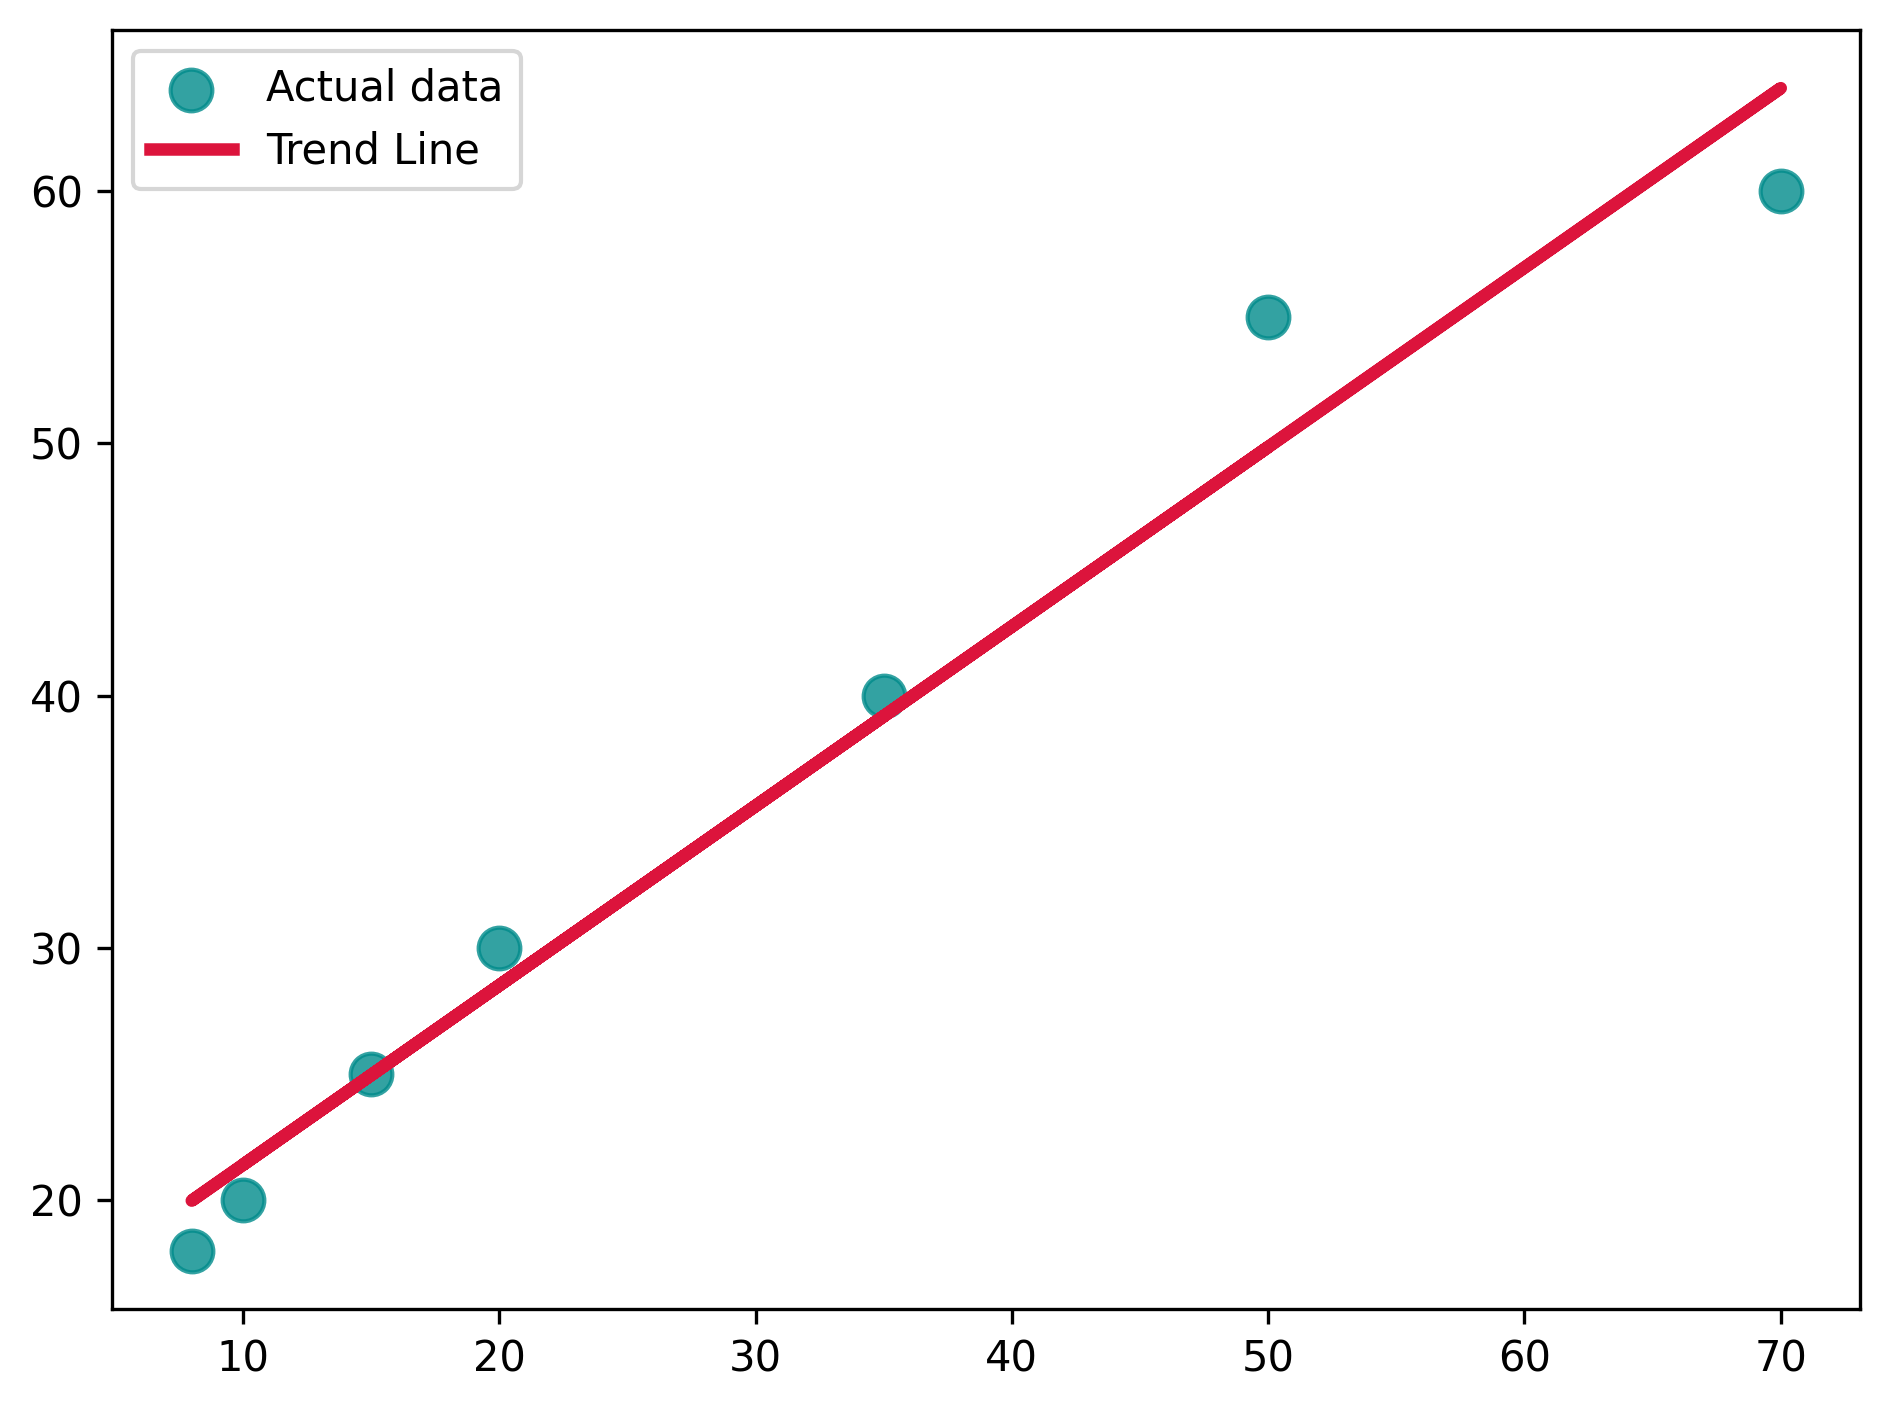
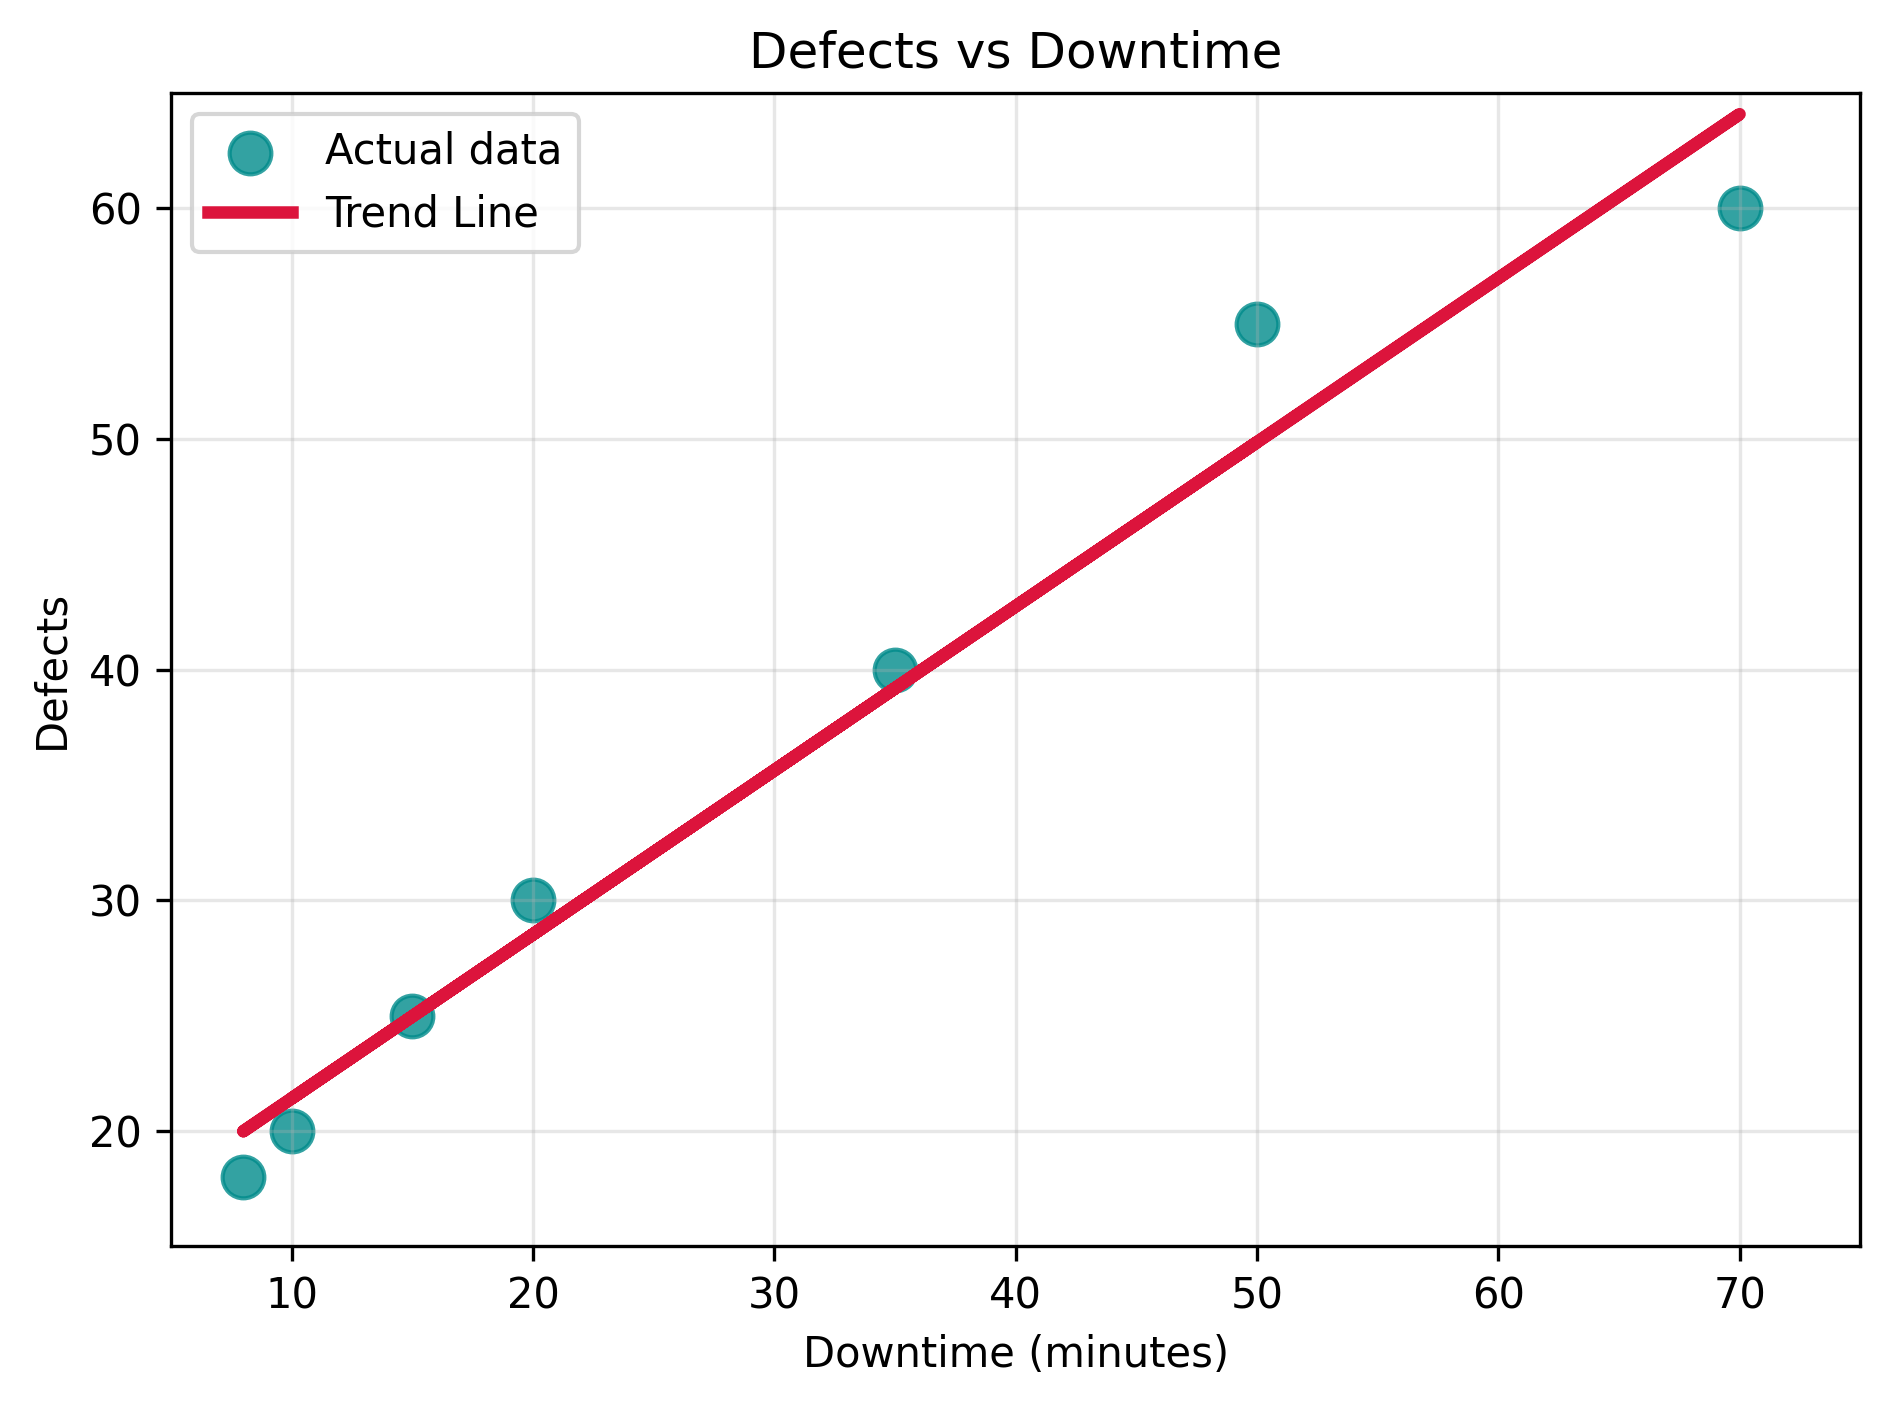
Refactor manufacturing analysis into functions

diff --git a/main.py b/main.py
@@ -3,129 +3,170 @@ import pandas as pd
 import matplotlib.pyplot as plt
 import numpy as np
 
-df = pd.read_csv("data/production_data.csv") # Asegúrate de que la ruta al archivo CSV sea correcta. Si el archivo está en el mismo directorio que tu script, puedes usar simplemente "production_data.csv". Si está en una carpeta llamada "data", entonces la ruta es "data/production_data.csv".
-print(df)
 
-print("\n--- Statistical Summary ---")
-
-numeric_columns = ["Production", "Defects", "Downtime_Minutes"]
-
-for column in numeric_columns:
-    mean_value = np.mean(df[column])
-    min_value = np.min(df[column])
-    max_value = np.max(df[column])
-    std_value = np.std(df[column])
-
-    print(f"\n{column}")
-    print(f"Mean: {mean_value:.2f}")
-    print(f"Min: {min_value}")
-    print(f"Max: {max_value}")
-    print(f"Std: {std_value:.2f}")
-
-correlation = df["Defects"].corr(df["Downtime_Minutes"])
-print(f"\nCorrelation Defects vs Downtime: {correlation:.2f}")
-
-if correlation >= 0.7:
-    print("Interpretation: Strong positive relationship.")
-elif correlation >= 0.3:
-    print("Interpretation: Moderate positive relationship.")
-elif correlation > -0.3:
-    print("Interpretation: Weak or no linear relationship.")
-elif correlation > -0.7:
-    print("Interpretation: Moderate negative relationship.")
-else:
-    print("Interpretation: Strong negative relationship.")
-
-# print(df.info()) Esto nos da información sobre el DataFrame, como el número de filas, columnas, tipos de datos y valores nulos.
-
-# print(df.describe()) Esto nos proporciona estadísticas descriptivas sobre las columnas numéricas del DataFrame, como la media, la desviación estándar, los valores mínimos y máximos, y los percentiles.
-
-max_defects = df["Defects"].max() # Esto encuentra el valor máximo en la columna "Defects", que representa el número máximo de defectos registrados en un día.
-print(f"Maximum defects: {max_defects}")
-
-most_defects_day = df[df["Defects"] == max_defects] # Esto filtra el DataFrame para obtener solo las filas donde el número de defectos es igual al valor máximo encontrado. Esto nos dará un nuevo DataFrame que contiene solo los días con el número máximo de defectos.
-
-print(f"Day with most defects: {most_defects_day['Day'].iloc[0]}") # Esto accede a la columna "Day" del DataFrame filtrado (most_defects_day) y obtiene el primer valor de esa columna usando iloc[0]. Esto nos dará el día específico en el que se registró el número máximo de defectos.
-
-average_defects = df["Defects"].mean()
-
-above_average_defects =df[df["Defects"] > average_defects] # Esto filtra el DataFrame para obtener solo las filas donde el número de defectos es mayor que el promedio calculado. Esto nos dará un nuevo DataFrame que contiene solo los días con un número de defectos por encima del promedio.
-
-print(f"Average defects: {average_defects:.2f}")
-print("Days with above average defects:")
-print(above_average_defects[["Day", "Defects"]]) # Esto imprime solo las columnas "Day" y "Defects" del DataFrame filtrado (above_average_defects), mostrando los días específicos y el número de defectos para aquellos días que tienen un número de defectos por encima del promedio.
-
-max_production = df["Production"].max()
-print(f"Maximum production: {max_production}")
-
-max_production_day = df[df["Production"] == max_production]
-print(f"Day with maximum production: {max_production_day['Day'].iloc[0]}") # Esto accede a la columna "Day" del DataFrame filtrado (max_production_day) y obtiene el primer valor de esa columna usando iloc[0]. Esto nos dará el día específico en el que se registró la producción máxima.
-print(f"Production: {max_production_day['Production'].iloc[0]}") # Esto imprime solo las columnas "Day" y "Production" del DataFrame filtrado (max_production_day), mostrando el día específico y el número de unidades producidas para el día con la producción máxima.
+# Load dataset
+def load_data(file_path):   
+    return pd.read_csv(file_path)
 
 
+# Print statistical summary for key numeric columns
+def print_statistical_summary(df):
+    print("\n--- Statistical Summary ---")
 
-plt.bar(
-    df["Day"],
-    df["Production"],
-    color=["darkcyan","darkcyan","darkcyan","darkcyan","darkgreen","crimson","darkcyan"]
-    ) # Esto crea un gráfico de barras utilizando la columna "Day" para el eje x y la columna "Production" para el eje y.
-plt.title("Production by Day")
-plt.xlabel("Day")
-plt.ylabel("Production")
-plt.ylim(0,1600)
-for day, production in zip(df["Day"], df["Production"]): 
-    plt.text(day, production + 15, str(production),ha="center") # Esto agrega etiquetas de texto encima de cada barra en el gráfico, mostrando el valor de producción correspondiente a cada día. El texto se coloca un poco por encima de la barra (production + 15) para que sea visible.
-plt.xticks(rotation=45, ha="right")
-plt.tight_layout()
-plt.savefig("images/production_by_day.png", dpi=300, bbox_inches="tight")
-plt.show()
+    numeric_columns = ["Production", "Defects", "Downtime_Minutes"]
 
+    for column in numeric_columns:
+        mean_value = np.mean(df[column])
+        min_value = np.min(df[column])
+        max_value = np.max(df[column])
+        std_value = np.std(df[column])
 
+        print(f"\n{column}")
+        print(f"Mean: {mean_value:.2f}")
+        print(f"Min: {min_value}")
+        print(f"Max: {max_value}")
+        print(f"Std: {std_value:.2f}")
 
-plt.bar(
-    df["Day"],
-    df["Defects"],
-    color=["darkcyan","darkcyan","darkcyan","darkcyan","darkgreen","crimson","darkcyan"]
-    ) # Esto crea un gráfico de barras utilizando la columna "Day" para el eje x y la columna "Defects" para el eje y.
-plt.title("Defects by Day")
-plt.xlabel("Day")
-plt.ylabel("Defects")
-plt.ylim(0,100)
-for day, defects in zip(df["Day"], df["Defects"]): 
-    plt.text(day, defects +1, str(defects),ha="center") # Esto agrega etiquetas de texto encima de cada barra en el gráfico, mostrando el valor de defectos correspondiente a cada día. El texto se coloca un poco por encima de la barra (defects + 15) para que sea visible.
-plt.show()
+    # Measures the relationship between downtime and defects
+    correlation = df["Defects"].corr(df["Downtime_Minutes"])
+    print(f"\nCorrelation Defects vs Downtime: {correlation:.2f}")
 
-plt.scatter(df["Downtime_Minutes"], df["Defects"], color="darkcyan", s=100, alpha=0.8,) # Esto crea un gráfico de dispersión utilizando la columna "Downtime_minutes" para el eje x y la columna "Defects" para el eje y. Cada punto en el gráfico representa un día específico, con su tiempo de inactividad en minutos y el número de defectos correspondientes.
-plt.grid(alpha=0.3)
-plt.xlim(5,75)
-plt.ylim(15,65)
-plt.title("Defects vs Downtime")
-plt.xlabel("Downtime (minutes)")
-plt.ylabel("Defects")
-plt.show()
+    if correlation >= 0.7:
+        print("Interpretation: Strong positive relationship.")
+    elif correlation >= 0.3:
+        print("Interpretation: Moderate positive relationship.")
+    elif correlation > -0.3:
+        print("Interpretation: Weak or no linear relationship.")
+    elif correlation > -0.7:
+        print("Interpretation: Moderate negative relationship.")
+    else:
+        print("Interpretation: Strong negative relationship.")
 
 
+# Create and save production by day bar chart
+def plot_production_by_day(df):
+    plt.bar(
+        df["Day"],
+        df["Production"],
+        color=["darkcyan", "darkcyan", "darkcyan", "darkcyan", "darkgreen", "crimson", "darkcyan"]
+    )
 
-pendiente, intercepto = np.polyfit(
-    df["Downtime_Minutes"],
-    df["Defects"],
-    1
-)
+    plt.title("Production by Day")
+    plt.xlabel("Day")
+    plt.ylabel("Production")
+    plt.ylim(0, 1600)
 
-y_linea = pendiente * df["Downtime_Minutes"] + intercepto
+    for day, production in zip(df["Day"], df["Production"]):
+        plt.text(day, production + 15, str(production), ha="center")
 
-plt.scatter(df["Downtime_Minutes"], df["Defects"], color="darkcyan", s=100, alpha=0.8,label="Actual data") # Esto crea un gráfico de dispersión utilizando la columna "Downtime_minutes" para el eje x y la columna "Defects" para el eje y. Cada punto en el gráfico representa un día específico, con su tiempo de inactividad en minutos y el número de defectos correspondientes.
+    plt.xticks(rotation=45, ha="right")
+    plt.tight_layout()
+    plt.savefig("images/production_by_day.png", dpi=300, bbox_inches="tight")
+    plt.show()
 
-plt.plot(
-    df["Downtime_Minutes"],
-    y_linea,
-    color="crimson",
-    linewidth=3,
-    label="Trend Line"
-    
-)
-plt.legend()
-plt.tight_layout()
-plt.savefig("images/defects_vs_downtime.png", dpi=300, bbox_inches="tight")
-plt.show()
-# Esto realiza un ajuste de línea recta (grado 1) a los datos de "Downtime_minutes" y "Defects". Devuelve los coeficientes de la línea ajustada, donde el primer valor es la pendiente y el segundo valor es la intersección con el eje y. Estos coeficientes se pueden usar para trazar la línea de tendencia en el gráfico de dispersión.
+
+# Create and save defects by day bar chart
+def plot_defects_by_day(df):
+    plt.bar(
+        df["Day"],
+        df["Defects"],
+        color=["darkcyan", "darkcyan", "darkcyan", "darkcyan", "darkgreen", "crimson", "darkcyan"]
+    )
+
+    plt.title("Defects by Day")
+    plt.xlabel("Day")
+    plt.ylabel("Defects")
+    plt.ylim(0, 100)
+
+    for day, defects in zip(df["Day"], df["Defects"]): 
+        plt.text(day, defects +1, str(defects), ha="center")
+    plt.xticks(rotation=45, ha="right")
+    plt.tight_layout()
+    plt.savefig("images/defects_by_day.png", dpi=300, bbox_inches="tight")
+    plt.show()
+
+
+# Create and save defects vs downtime scatter plot with trend line
+def plot_defects_vs_downtime(df):
+    # Calculate trend line for the relationship between downtime and defects
+    pendiente, intercepto = np.polyfit(
+        df["Downtime_Minutes"],
+        df["Defects"],
+        1
+    )
+
+    y_linea = pendiente * df["Downtime_Minutes"] + intercepto
+
+    # Scatter plot with actual data points
+    plt.scatter(
+        df["Downtime_Minutes"],
+        df["Defects"],
+        color="darkcyan",
+        s=100,
+        alpha=0.8,
+        label="Actual data"
+    )
+
+    # Add trend line
+    plt.plot(
+        df["Downtime_Minutes"],
+        y_linea,
+        color="crimson",
+        linewidth=3,
+        label="Trend Line"
+    )
+
+    plt.grid(alpha=0.3)
+    plt.xlim(5, 75)
+    plt.ylim(15, 65)
+    plt.title("Defects vs Downtime")
+    plt.xlabel("Downtime (minutes)")
+    plt.ylabel("Defects")
+    plt.legend()
+    plt.tight_layout()
+    plt.savefig("images/defects_vs_downtime.png", dpi=300, bbox_inches="tight")
+    plt.show()
+
+
+# Print key operational findings from the dataset
+def print_key_findings(df):
+    print("\n--- Key Findings ---")
+
+    # Defects analysis
+    max_defects = df["Defects"].max()
+    most_defects_day = df[df["Defects"] == max_defects]
+
+    average_defects = df["Defects"].mean()
+    above_average_defects = df[df["Defects"] > average_defects]
+
+    print("\nDefects Analysis")
+    print(f"Maximum defects: {max_defects}")
+    print(f"Day with most defects: {most_defects_day['Day'].iloc[0]}")
+    print(f"Average defects: {average_defects:.2f}")
+    print("Days with above average defects:")
+    print(above_average_defects[["Day", "Defects"]])
+
+
+    # Production analysis
+    max_production = df["Production"].max()
+    max_production_day = df[df["Production"] == max_production]
+
+    print("\nProduction Analysis")
+    print(f"Maximum production: {max_production}")
+    print(f"Day with maximum production: {max_production_day['Day'].iloc[0]}")
+    print(f"Production: {max_production_day['Production'].iloc[0]}")
+
+
+# Run the full analysis workflow
+def main():
+    df = load_data("data/production_data.csv")
+    print(df)
+    print_statistical_summary(df)
+    print_key_findings(df)
+    plot_production_by_day(df)
+    plot_defects_by_day(df)
+    plot_defects_vs_downtime(df)
+
+
+if __name__ == "__main__":
+    main()
